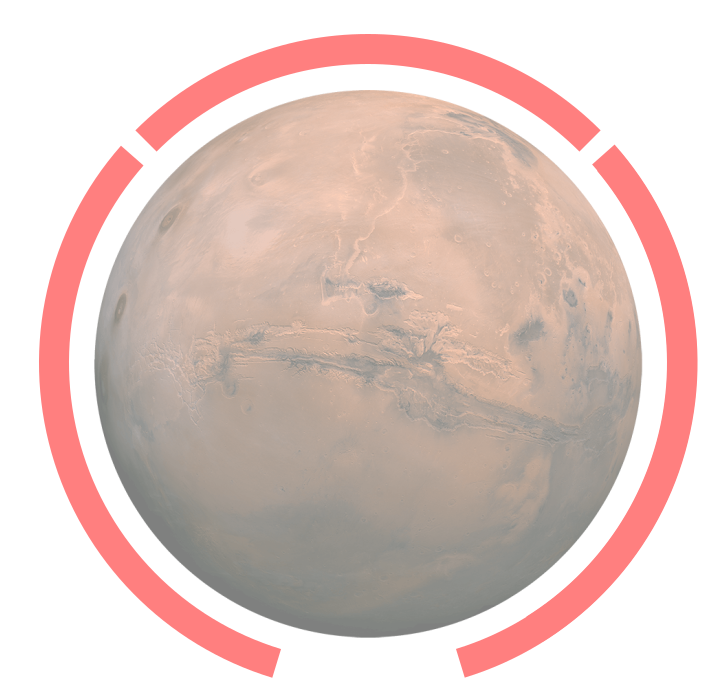
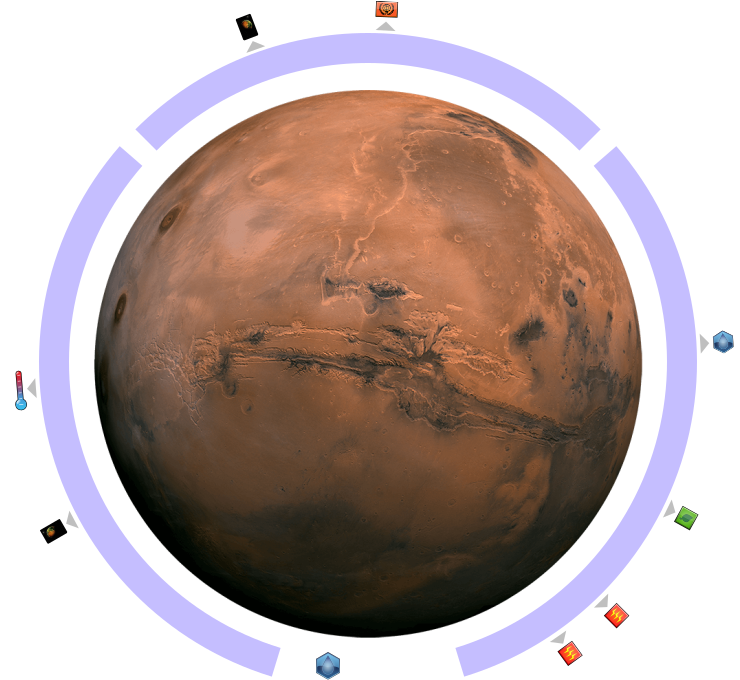
Tune large-map dial/marker positions and refresh placeholder art
- Re-derive the large-map severe Ares markers from the repacked
  temperature/oxygen tracks and override their rotation to match (they
  were inheriting the standard-dial rotation, which is wrong once the
  tracks are de-squished).
- Nudge erosion icon/value, alt-Venus bonus markers, and the off-Mars
  colony spaces (Ceres Spaceport, Dyson Screens, Lunar Embassy, Venera
  Base) on the larger board.
- Refresh the placeholder mars-large.png export.

diff --git a/src/styles/globs.less b/src/styles/globs.less
@@ -414,35 +414,40 @@
     // Ares hazard markers. The ocean-related ones (erosion / remove-dust-storm) are anchored to
     // the ocean count, so they take the same translation the ocean count took (+108 top, +40 left
     // from the standard layout) — keeping the erosion icon/value on the same row as the oceans.
-    // The "severe" markers sit just outside the temperature / oxygen tracks, so each is placed at
-    // its (repacked) large track value pushed radially outward from the dial centre (349,351).
-    // First-cut positions — tune against the final art.
-    .global-ares-erosions-icon { margin: 637px 0 0 256px; } // nudged right to clear the 0% oxygen marker
-    .global-ares-erosions-val { margin: 643px 0 0 270px; }
+    .global-ares-erosions-icon { margin: 637px 0 0 261px; } // nudged right to clear the 0% oxygen marker
+    .global-ares-erosions-val { margin: 643px 0 0 285px; }
     .global-ares-remove-dust-storms-icon { margin: 544px 0 0 316px; }
     .global-ares-remove-dust-storms-val { margin: 643px 0 0 421px; }
-    .global-ares-severe-erosions-0 { margin: 308px 0 0 720px; }
-    .global-ares-severe-erosions--2 { margin: 342px 0 0 695px; }
-    .global-ares-severe-erosions--4 { margin: 373px 0 0 690px; }
-    .global-ares-severe-erosions--6 { margin: 402px 0 0 686px; }
-    .global-ares-severe-erosions--8 { margin: 432px 0 0 674px; }
-    .global-ares-severe-dust-storms-3 { margin: 620px 0 0 112px; }
-    .global-ares-severe-dust-storms-4 { margin: 597px 0 0 82px; }
-    .global-ares-severe-dust-storms-5 { margin: 571px 0 0 53px; }
-    .global-ares-severe-dust-storms-6 { margin: 540px 0 0 31px; }
-    .global-ares-severe-dust-storms-7 { margin: 507px 0 0 9px; }
+
+    // Each "severe" marker sits just outboard of its matching track value marker (severe-erosion V
+    // outboard of temperature V; severe-dust-storm V outboard of oxygen V) and SHARES that value's
+    // rotation. Because the large tracks are repacked (see above), the standard transform's rotation
+    // is wrong here and must be overridden — the rotation below matches the corresponding large
+    // @temperature-vals-large / @oxygen-vals-large entry. Each margin is that large value marker's
+    // centre pushed ~45px radially out from the dial centre (351 left, 349 top), minus the marker's
+    // half-size (27, 30). The scale(.4) is re-stated because we override the whole transform.
+    .global-ares-severe-erosions-0 { margin: 296px 0 0 682px; transform: rotate(-4deg) scale(.4, .4); }
+    .global-ares-severe-erosions--2 { margin: 327px 0 0 683px; transform: rotate(1deg) scale(.4, .4); }
+    .global-ares-severe-erosions--4 { margin: 358px 0 0 681px; transform: rotate(6deg) scale(.4, .4); }
+    .global-ares-severe-erosions--6 { margin: 388px 0 0 676px; transform: rotate(11deg) scale(.4, .4); }
+    .global-ares-severe-erosions--8 { margin: 418px 0 0 669px; transform: rotate(16deg) scale(.4, .4); }
+    .global-ares-severe-dust-storms-3 { margin: 601px 0 0 103px; transform: rotate(-52deg) scale(.4, .4); }
+    .global-ares-severe-dust-storms-4 { margin: 577px 0 0 75px; transform: rotate(-46deg) scale(.4, .4); }
+    .global-ares-severe-dust-storms-5 { margin: 550px 0 0 48px; transform: rotate(-40deg) scale(.4, .4); }
+    .global-ares-severe-dust-storms-6 { margin: 520px 0 0 27px; transform: rotate(-34deg) scale(.4, .4); }
+    .global-ares-severe-dust-storms-7 { margin: 487px 0 0 7px; transform: rotate(-28deg) scale(.4, .4); }
 
     // Alt-Venus board wild-resource bonuses (venus 18..30) sit beside the tail end of the venus
     // track, so they follow the reprojected large venus track (offset from the matching value).
     .global-alt-venus {
-      .p18 { margin: 62px 0 0 384px; }
-      .p20 { margin: 68px 0 0 413px; }
-      .p22 { margin: 76px 0 0 439px; }
-      .p24 { margin: 86px 0 0 465px; }
-      .p26 { margin: 100px 0 0 489px; }
-      .p28 { margin: 116px 0 0 512px; }
-      .p30 { margin: 131px 0 0 527px; }
-      .p30b { margin: 143px 0 0 541px; }
+      .p18 { margin: 60px 0 0 385px; }
+      .p20 { margin: 66px 0 0 414px; }
+      .p22 { margin: 74px 0 0 440px; }
+      .p24 { margin: 84px 0 0 466px; }
+      .p26 { margin: 98px 0 0 490px; }
+      .p28 { margin: 114px 0 0 513px; }
+      .p30 { margin: 129px 0 0 528px; }
+      .p30b { margin: 141px 0 0 542px; }
     }
   }
 }

diff --git a/src/styles/board_items_positions.less b/src/styles/board_items_positions.less
@@ -318,12 +318,15 @@
     margin: -13px 0 0 468px;
   }
   .board-space-908 { // Ceres Spaceport — moved down + right, clear of the temperature track
-    margin: 520px 0 0 684px;
+    margin: 518px 0 0 694px;
   }
   .board-space-909 { // Dyson Screens — moved down + right, clear of the temperature track
-    margin: 587px 0 0 650px;
+    margin: 585px 0 0 660px;
   }
   .board-space-910 { // Lunar Embassy — moved down + right, clear of the temperature track
-    margin: 642px 0 0 608px;
+    margin: 642px 0 0 603px;
+  }
+  .board-space-911 { // Venera Base — nudged up
+    margin: -3px 0 0 610px;
   }
 }
